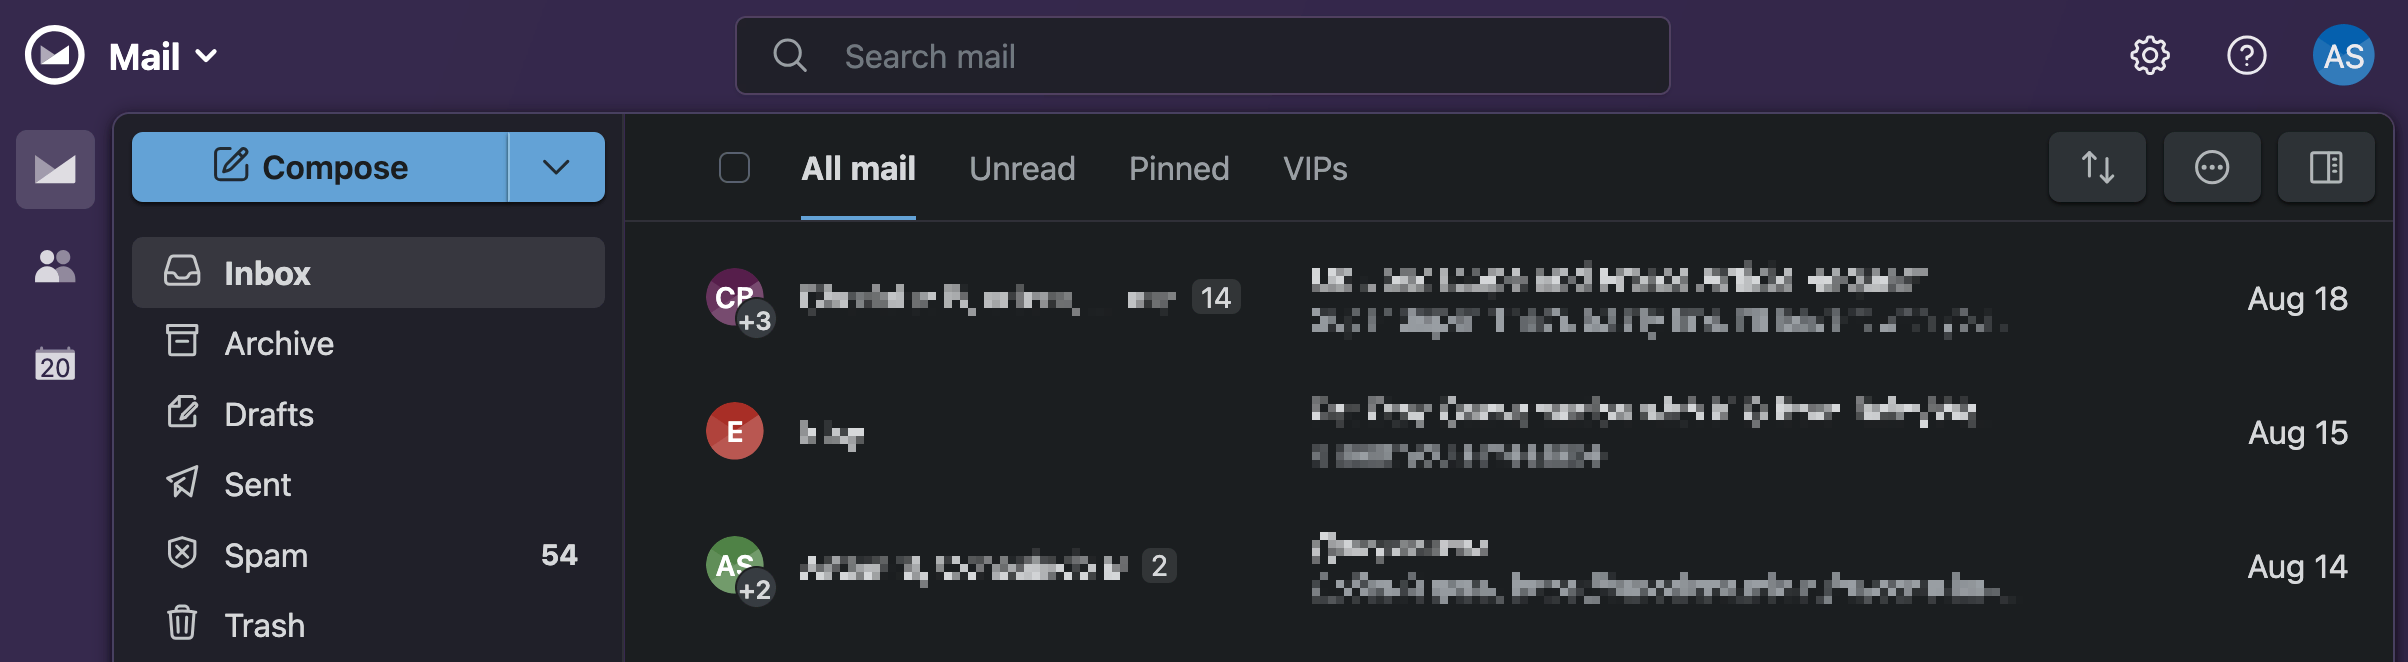
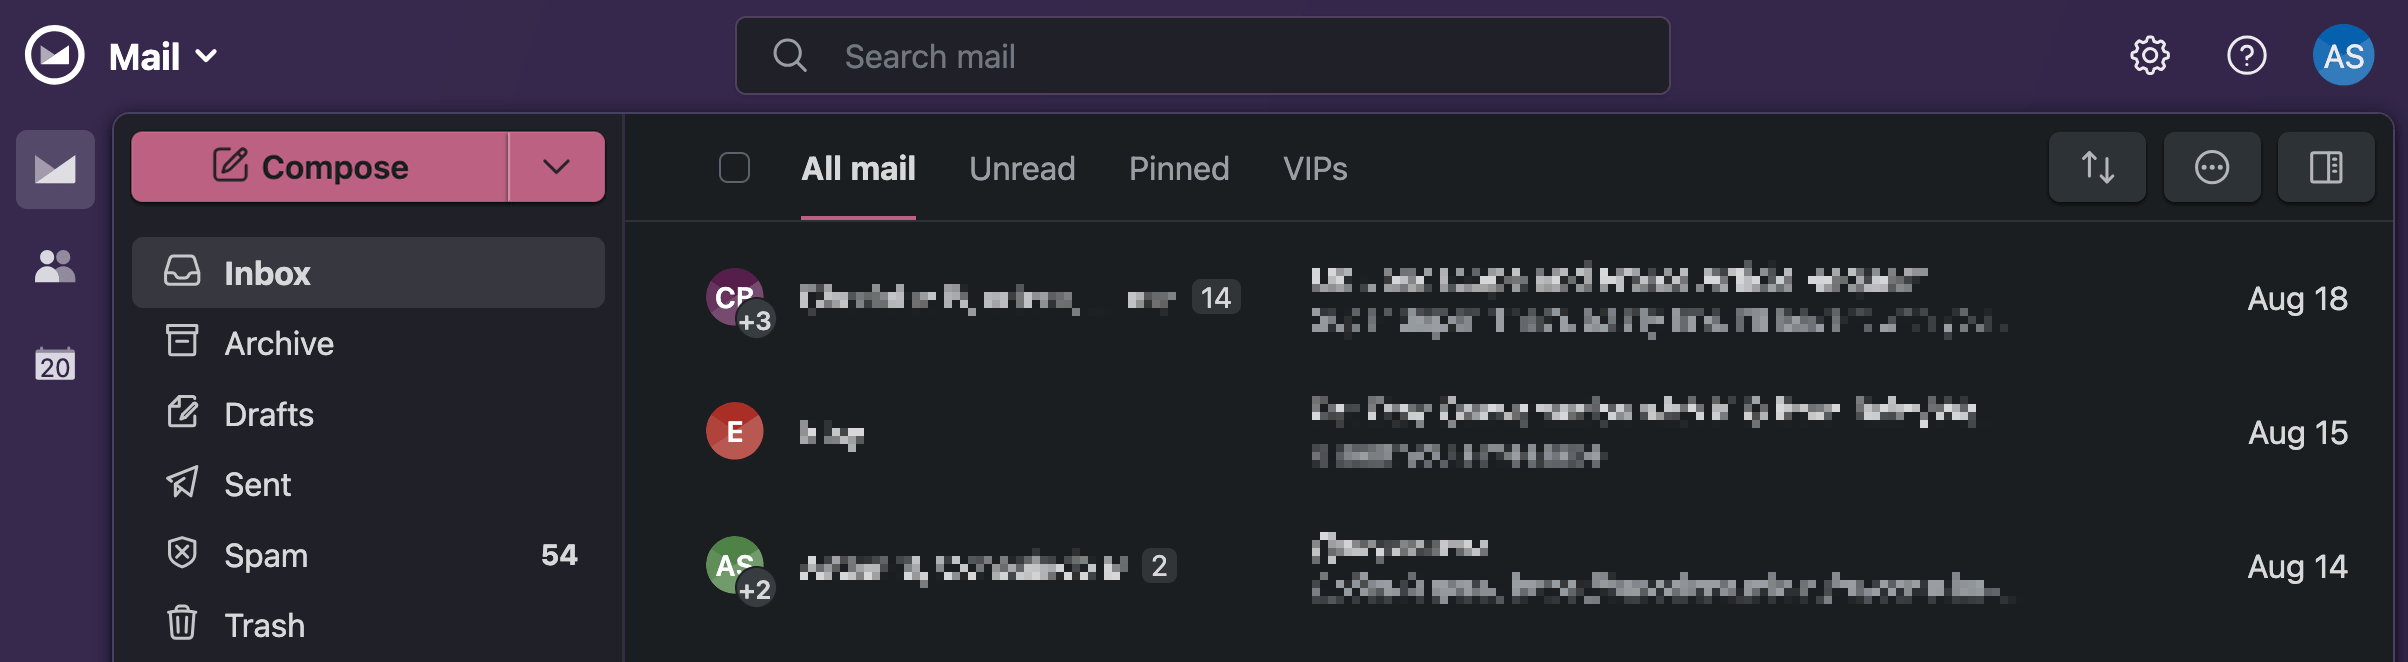
Fastmail: Update accent colors, generate theme

Changed region(s): [[0.0311, 0.1813, 0.2492, 0.3021], [0.3426, 0.3021, 0.3738, 0.3323]]

diff --git a/themes/Fastmail/Readme.md b/themes/Fastmail/Readme.md
@@ -8,9 +8,17 @@
 
 1. Copy the values below:
 
-   ```
-   #f7f6f9,#527b98,#36294d,#63a2d6
-   ```
+<!-- apply:theme -->
+
+```
+#f7f6f9,#ac9bc5,#36294d,#ca5a83
+```
 
 2. Open **Settings → Display options** in Fastmail.
 3. Paste the colors you copied from the previous step in the text field under **Copy these colors to save or share your theme. Paste to restore.**.
+
+<!-- Colors: Light mode header, light mode accent, dark mode header, dark mode accent -->
+
+<!-- template
+{{light:uiBackground}},{{light:boldAccent}},{{darkDp:uiBackground}},{{darkDp:boldAccent}}
+-->
